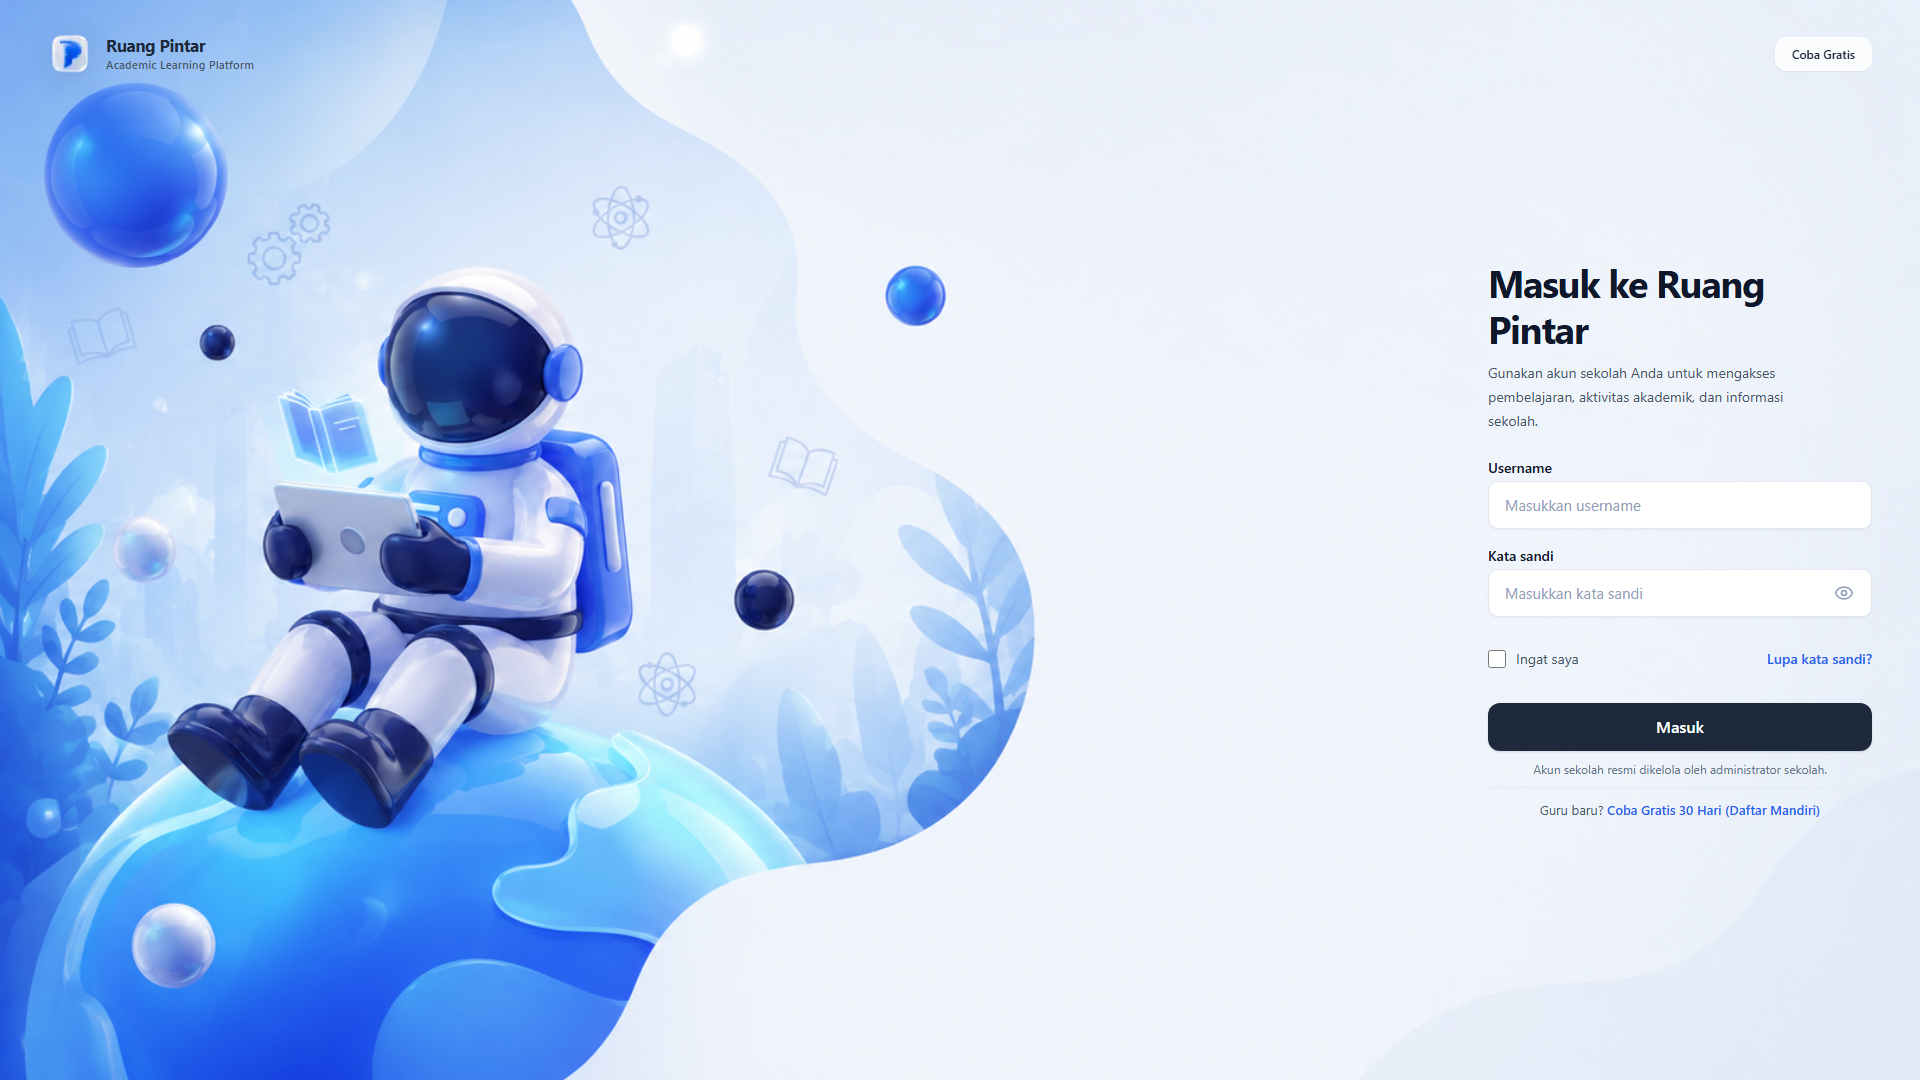
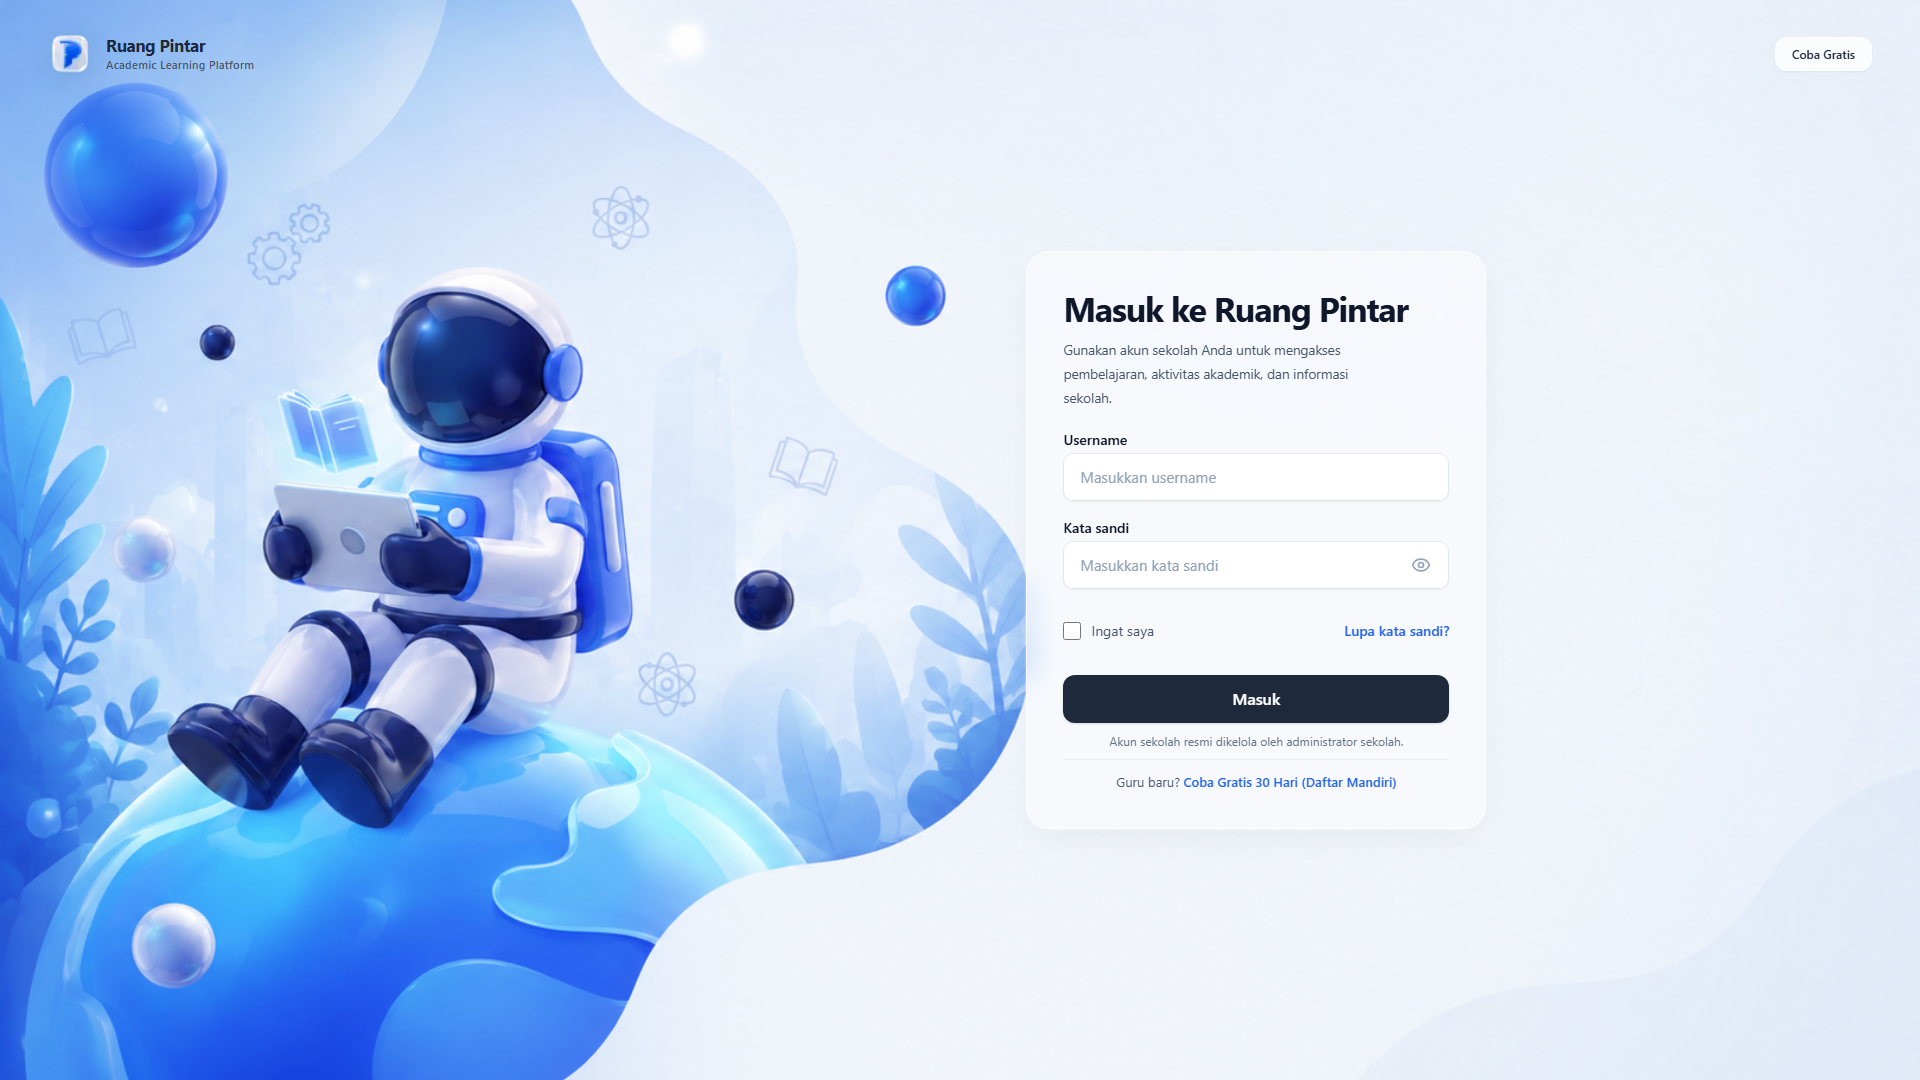
style(auth): shift form inward from edge and add subtle frosted glass container

diff --git a/src/shared/components/auth/auth-login-layout.tsx b/src/shared/components/auth/auth-login-layout.tsx
@@ -88,50 +88,54 @@ export function AuthLoginLayout({
         </div>
       </header>
 
-      {/* Main Container - Cardless Form Layout matching auth-layout-reference.png */}
-      <main className="relative z-10 min-h-[100dvh] w-full flex flex-col justify-between pt-20 sm:pt-24 lg:grid lg:grid-cols-[minmax(0,1.08fr)_minmax(420px,500px)] xl:grid-cols-[minmax(0,1.18fr)_minmax(440px,480px)] lg:grid-rows-1 lg:pt-0">
+      {/* Main Container - Balanced Center-Right positioning with subtle glass effect */}
+      <main className="relative z-10 min-h-[100dvh] w-full flex flex-col justify-between pt-20 sm:pt-24 lg:grid lg:grid-cols-[minmax(0,1.12fr)_minmax(420px,470px)_minmax(0,0.42fr)] xl:grid-cols-[minmax(0,1.2fr)_minmax(440px,480px)_minmax(0,0.5fr)] lg:grid-rows-1 lg:pt-0">
         {/* Left Column Spacer (Full artwork shines through) */}
         <div className="hidden lg:block pointer-events-none" aria-hidden="true" />
 
-        {/* Right Form Container: Perfectly placed in the open pastel canvas */}
-        <section className="relative z-10 flex w-full flex-col justify-start lg:justify-center items-center lg:items-start px-6 sm:px-10 lg:px-8 xl:px-12 pt-4 pb-8 lg:py-12">
-          {/* Optional Back Link */}
-          {backLink && (
-            <Link
-              href={backLink.href}
-              className="inline-flex items-center gap-1.5 text-xs font-semibold text-[#2563EB] hover:text-[#1D4ED8] mb-4 group transition-colors self-start"
-            >
-              <span className="transition-transform group-hover:-translate-x-0.5">&larr;</span>
-              <span>{backLink.label}</span>
-            </Link>
-          )}
-
+        {/* Center-Right Form Container: Shifted comfortably inward from right edge */}
+        <section className="relative z-10 flex w-full flex-col justify-start lg:justify-center items-center px-4 sm:px-6 lg:px-0 pt-4 pb-8 lg:py-12">
+          {/* Subtle Frosted Glass Container (Effek Glass Tipis) */}
           <div
             className={`w-full ${
-              wideForm ? "max-w-[520px]" : "max-w-[420px] sm:max-w-[450px]"
-            }`}
+              wideForm ? "max-w-[540px]" : "max-w-[430px] sm:max-w-[460px]"
+            } rounded-2xl sm:rounded-3xl bg-white/45 backdrop-blur-md border border-white/65 shadow-[0_12px_36px_-8px_rgba(15,23,42,0.06),0_1px_2px_rgba(255,255,255,0.7)] p-6 sm:p-8 lg:p-9 transition-all`}
           >
+            {/* Optional Back Link */}
+            {backLink && (
+              <Link
+                href={backLink.href}
+                className="inline-flex items-center gap-1.5 text-xs font-semibold text-[#2563EB] hover:text-[#1D4ED8] mb-4 group transition-colors"
+              >
+                <span className="transition-transform group-hover:-translate-x-0.5">&larr;</span>
+                <span>{backLink.label}</span>
+              </Link>
+            )}
+
             {/* Header Content */}
-            <div className="mb-6 space-y-2 sm:mb-7 sm:space-y-2.5">
+            <div className="mb-5 space-y-1.5 sm:mb-6 sm:space-y-2">
               {badge && (
                 <div className="inline-flex items-center gap-1.5 px-3 py-1 rounded-full bg-blue-500/10 border border-blue-500/20 text-[#2563EB] text-[11px] font-bold tracking-wide uppercase">
                   {badge}
                 </div>
               )}
-              <h1 className="text-[28px] leading-[1.2] font-bold tracking-[-0.035em] text-[#0F172A] sm:text-[34px] xl:text-[38px]">
+              <h1 className="text-[26px] leading-[1.2] font-bold tracking-[-0.035em] text-[#0F172A] sm:text-[30px] xl:text-[34px]">
                 {title}
               </h1>
               {description && (
-                <p className="max-w-[44ch] text-[13px] leading-5 text-[#475569] sm:text-[14px] sm:leading-6">
+                <p className="max-w-[42ch] text-[12.5px] leading-5 text-[#475569] sm:text-[13.5px] sm:leading-6">
                   {description}
                 </p>
               )}
             </div>
 
-            {/* Form Fields (Clean inputs floating on the open canvas) */}
+            {/* Form Fields & Controls */}
             {children}
           </div>
         </section>
+
+        {/* Right Spacer (Guarantees form never hugs the right edge) */}
+        <div className="hidden lg:block pointer-events-none" aria-hidden="true" />
       </main>
     </div>
   );
